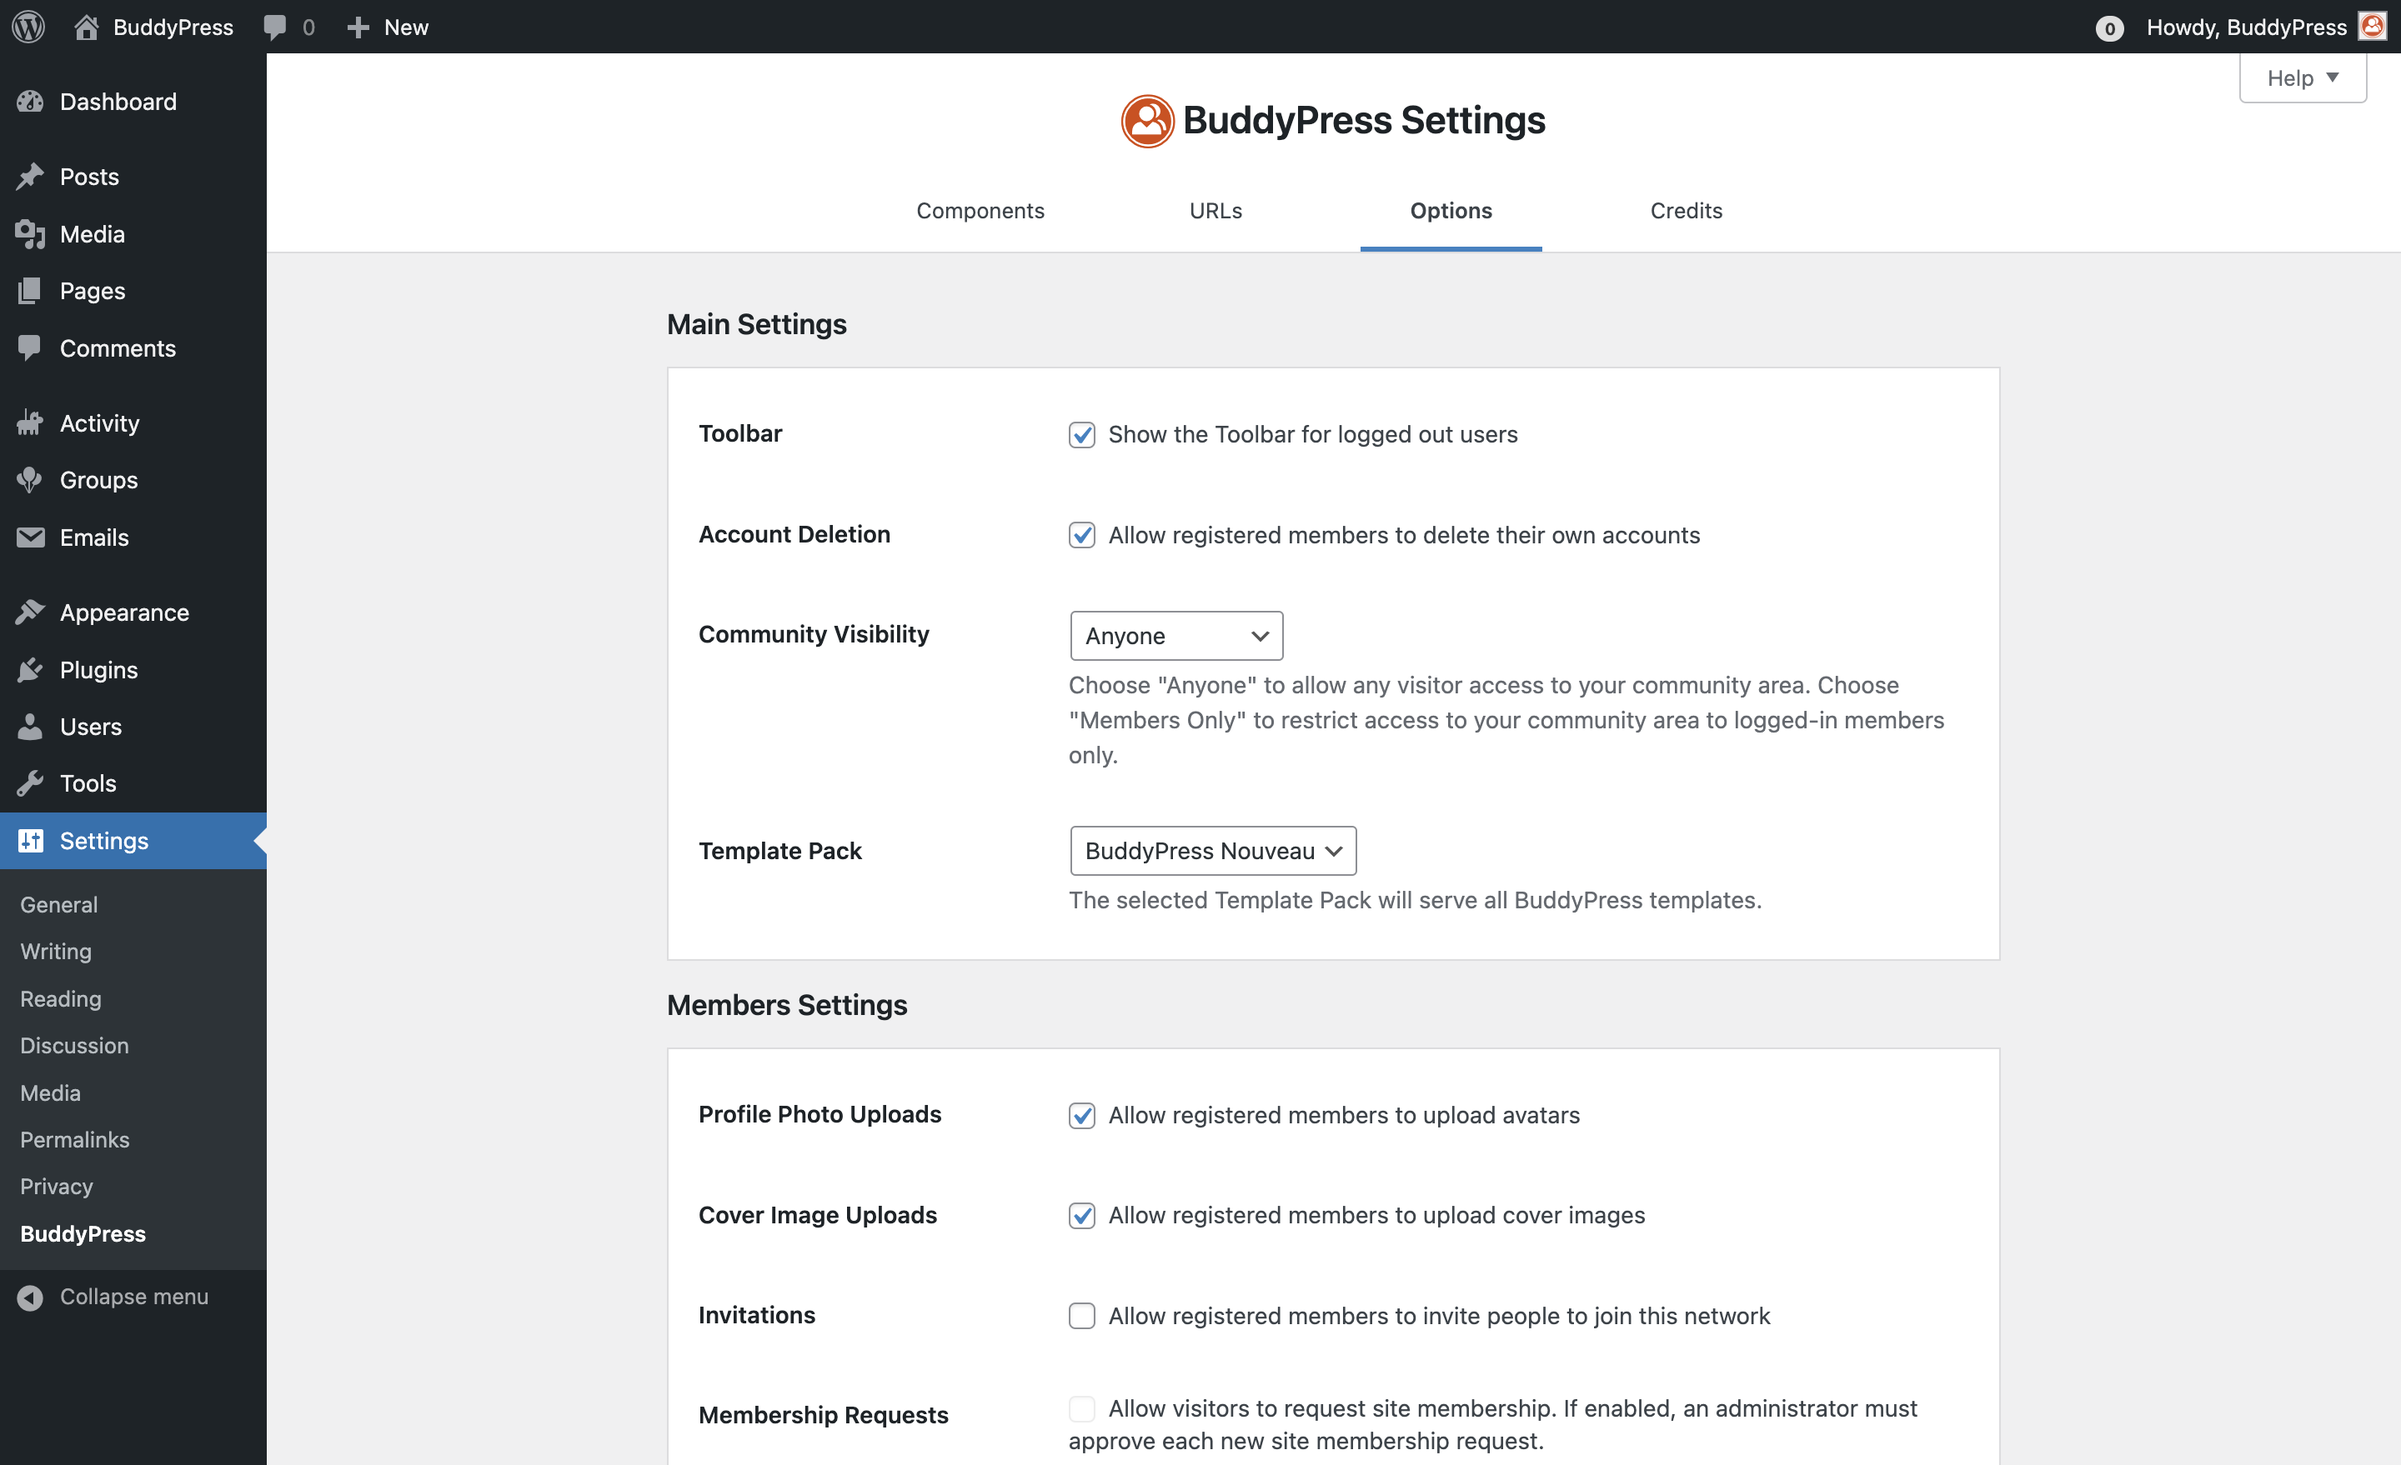
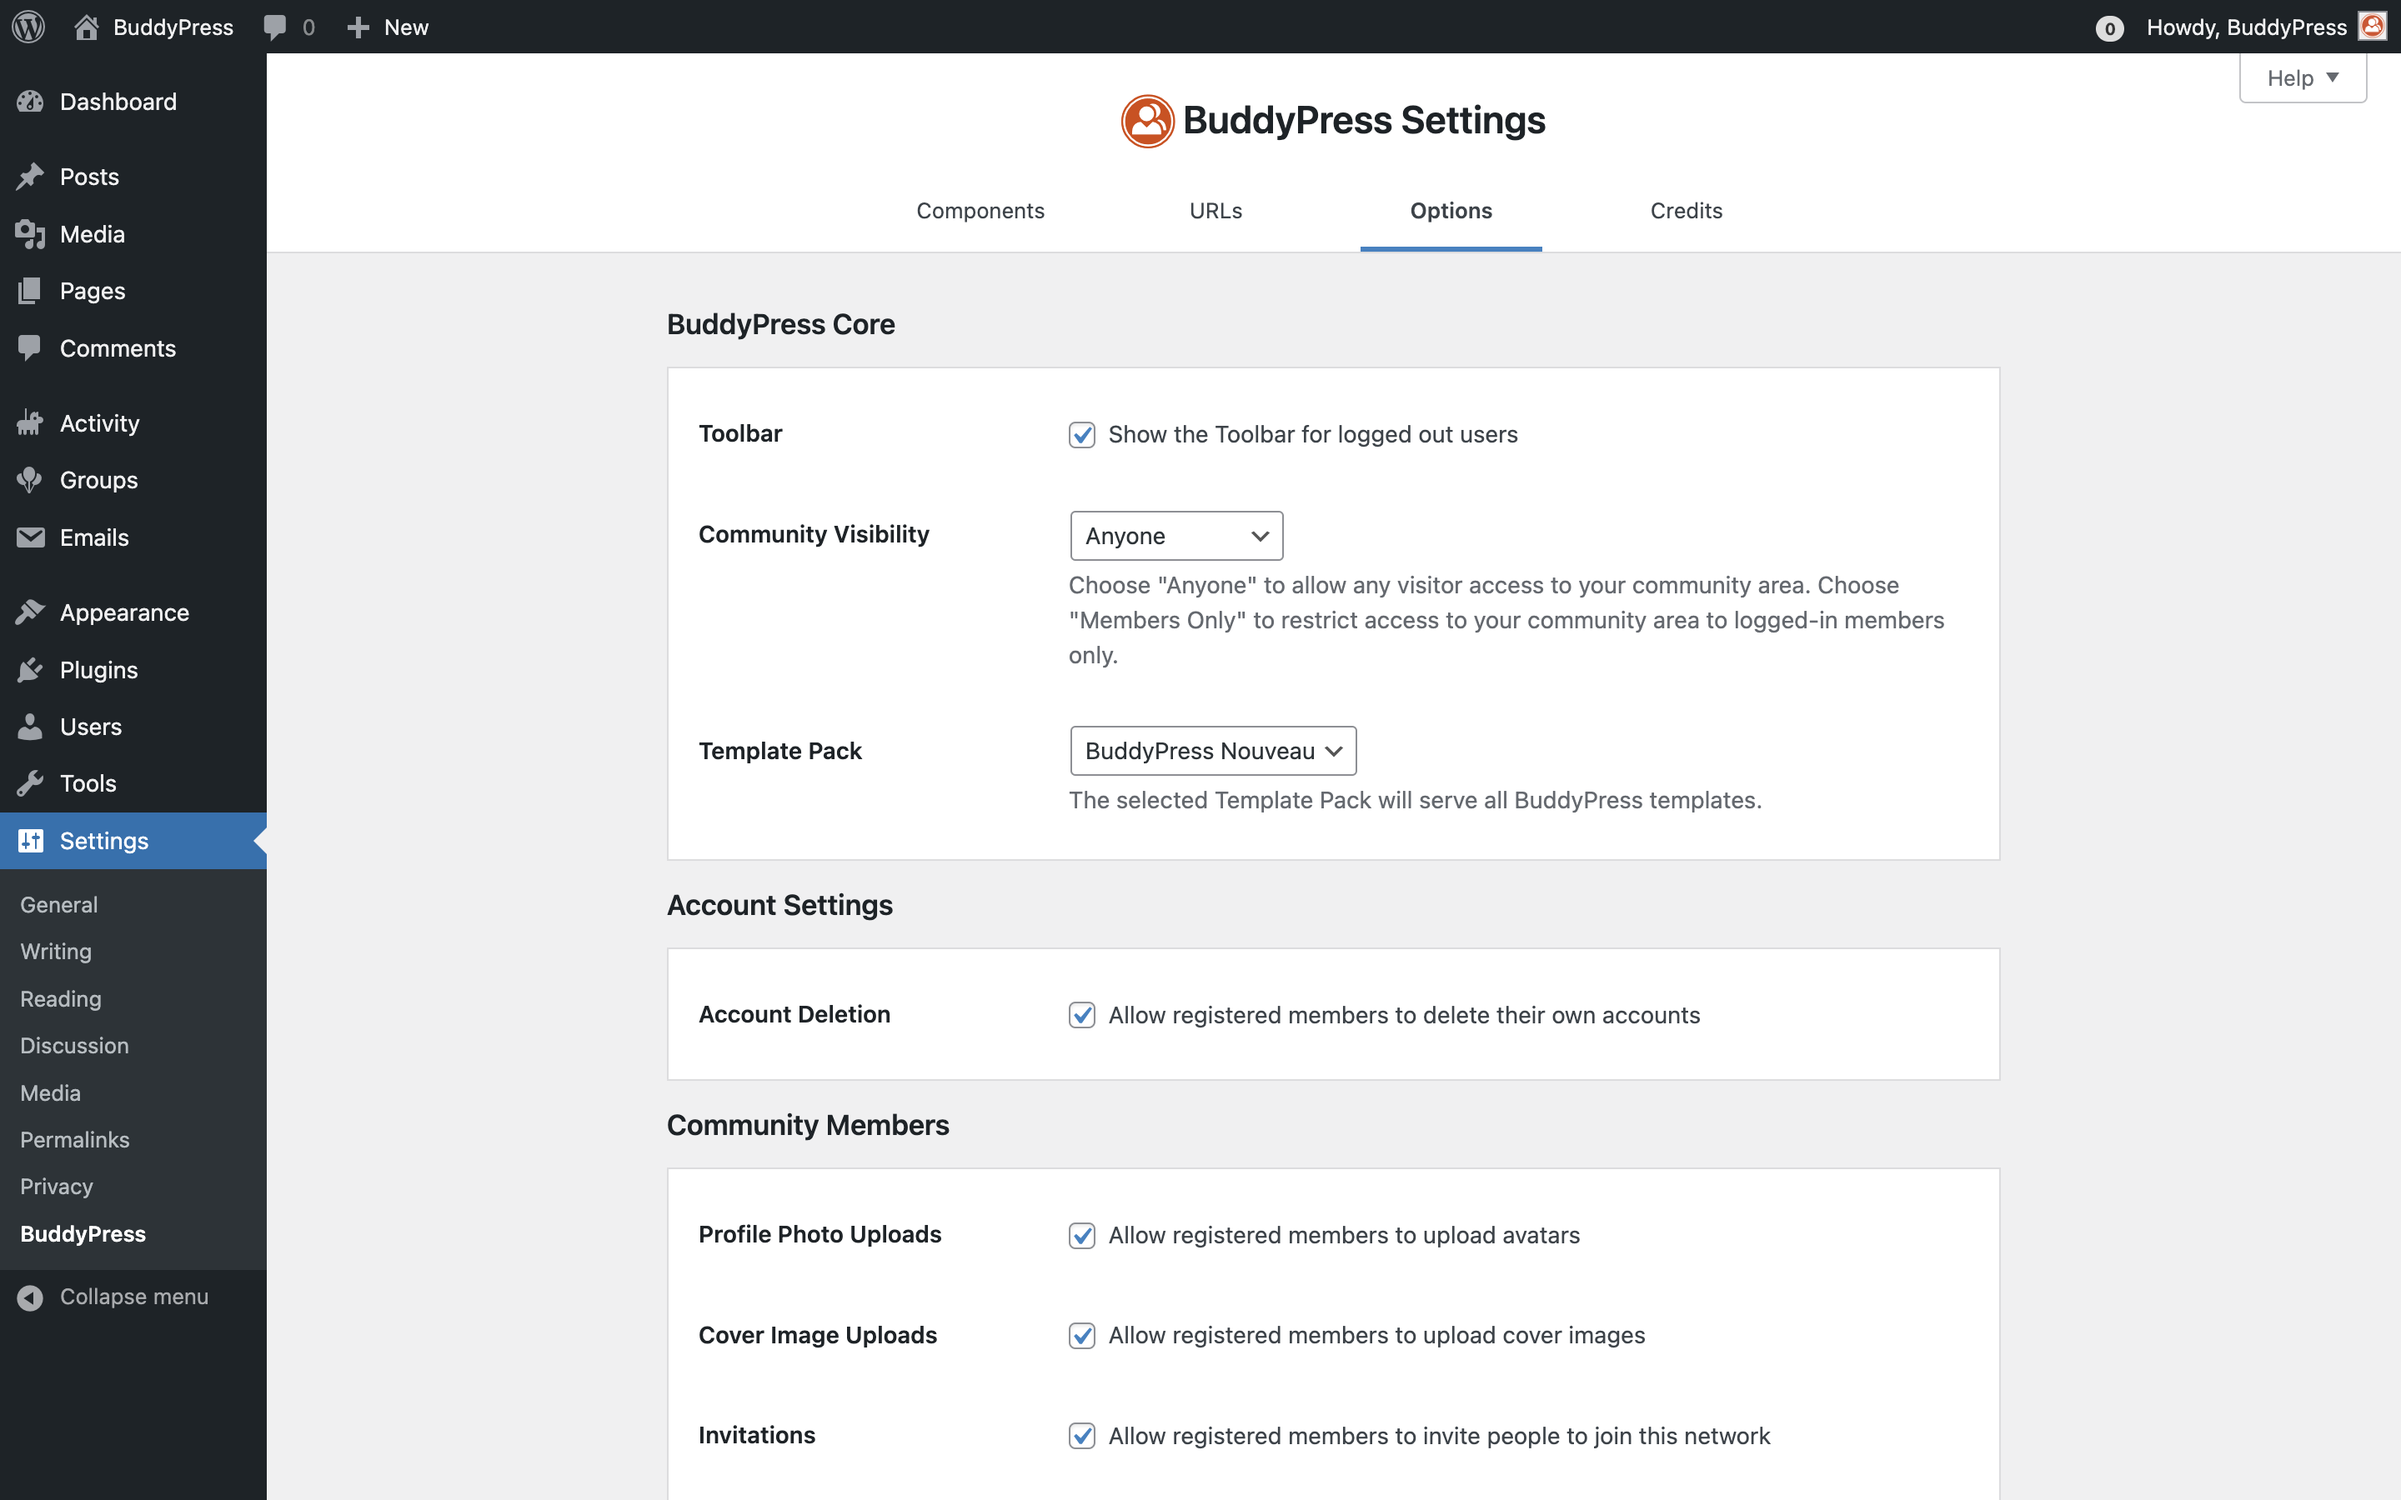
Improve options documentation

diff --git a/docs/user/administration/settings/options.md b/docs/user/administration/settings/options.md
@@ -1,19 +1,82 @@
 # BuddyPress options
 
-The amount of available options is up to the BuddyPress Components you chose to activate. You'll always get the Main and Members sections as they refer to required components. 3 Optional components are allowing some of their behaviors to be customized using specific options:
+The amount of available options is up to the BuddyPress Components you chose to activate. You'll always get the BuddyPress Core and Community Members sections as they refer to required components. 4 optional components are allowing some of their behaviors to be customized using specific options:
 
-- Extended profiles,
-- Groups,
-- & Activity.
+- Account Settings,
+- Extended Profiles,
+- User Groups,
+- & Activity Streams.
 
 ![BP Options tab screenshot](../../assets/bp-settings-customize-options.png)
 
-## Main settings
+## BuddyPress Core
 
 ### Toolbar
 
 BuddyPress uses the WordPress Admin Bar to include shortcuts to the logged in user's profile pages and a Notifications "bubble". By default, it is enabled, but if you chose another way to display these informations, you can disable it.
 
+### Community visibility
+
+Version 12.0.0 of BuddyPress introduced the community visibility feature. Thanks to this option you can leave your community area completely public, allowing anyone to view BuddyPress generated content; or you can restrict this content to logged-in members only. In this second case, if an unauthenticated user tries to reach one of your community pages, a login form will be output instead of the community content.
+
+### Template pack
+
+BuddyPress Template packs are sets of community templates BuddyPress is using to organize the layout of the community pages. These templates are allowing BuddyPress to integrate - in an optimal way - into any WordPress theme. By default, the BP Nouveau template pack is active as it‘s the latest Template pack we've built. You can always chose to go back in time and use the BP Legacy one.
+
+**NB**: when you chose to activate a BuddyPress standalone theme such as the BP Default theme that is available into the [BP Classic Add-on](https://wordpress.org/plugins/bp-classic/), this option won't be taken in account as this kind of themes is including a customized set of community templates. 
+
+## Account Settings
+
 ### Account Deletion
 
 Enabled by default, this option leaves the possibility to any member to delete their account from the corresponding sub-navigation of their personal settings area.
+
+## Community Members
+
+### Profile photo upload
+
+Enabled by default, this option leaves the possibility to any member to upload an image and use it as their profile’s photo. This photo will be used at various places into the community area to better identify your members singularity.
+
+### Cover image upload
+
+Enabled by default, this option leaves the possibility to any member to upload an image and use it as their profile’s cover image. This image will only be used into the header part of your Members single pages.
+
+### Invitations
+
+To help your community growing, you can authorize your members to invite new users to be part of it. Administrators can follow and manage all sent invites and potential opt-outs from the BuddyPress tools page of your administration.
+
+### Membership Requests
+
+When site registrations are closed, you can activate this option to let users request a site membership. Administrators will then be able to accept or reject any site membership requests from the BuddyPress tools page of your administration.
+
+## Extended Profiles
+
+### Profile syncing
+
+Enabled by default, this option (if active) will make sure the WordPress user display name is the same than the BuddyPress member's name.
+
+## User Groups
+
+### Group Creation
+
+Enabled by default, this option leaves the possibility to any member of your community to create one or more groups. Administrators can always create groups even if this option is not active.
+
+### Group photo upload
+
+Enabled by default, this option leaves the possibility to any group administrator to upload an image and use it as the group's photo. This photo will be used at various places into the community area to better identify your groups singularity.
+
+### Group cover image upload
+
+Enabled by default, this option leaves the possibility to any group administrator to upload an image and use it as the group's cover image. This image will only be used into the header part of your Groups single pages.
+
+## Activity Streams
+
+### Post comments
+
+**NB**: Activities about WordPress regular posts or comments are only generated when the Site Tracking component is active. As a result, this option has only an effect when Site Tracking is on.
+
+By default this option is not active, meaning commenting WordPress posts or replying to a comment is only possible from the Posts's single view. When active, it allows your members to add comments to activities about WordPress posts or WordPress comments and these activity comments will be synchronized with regular post comments.
+
+### Activity auto-refresh
+
+Enabled by default, this option let Activity Streams pages to automatically checks for new activities according to a 15 seconds time interval.
